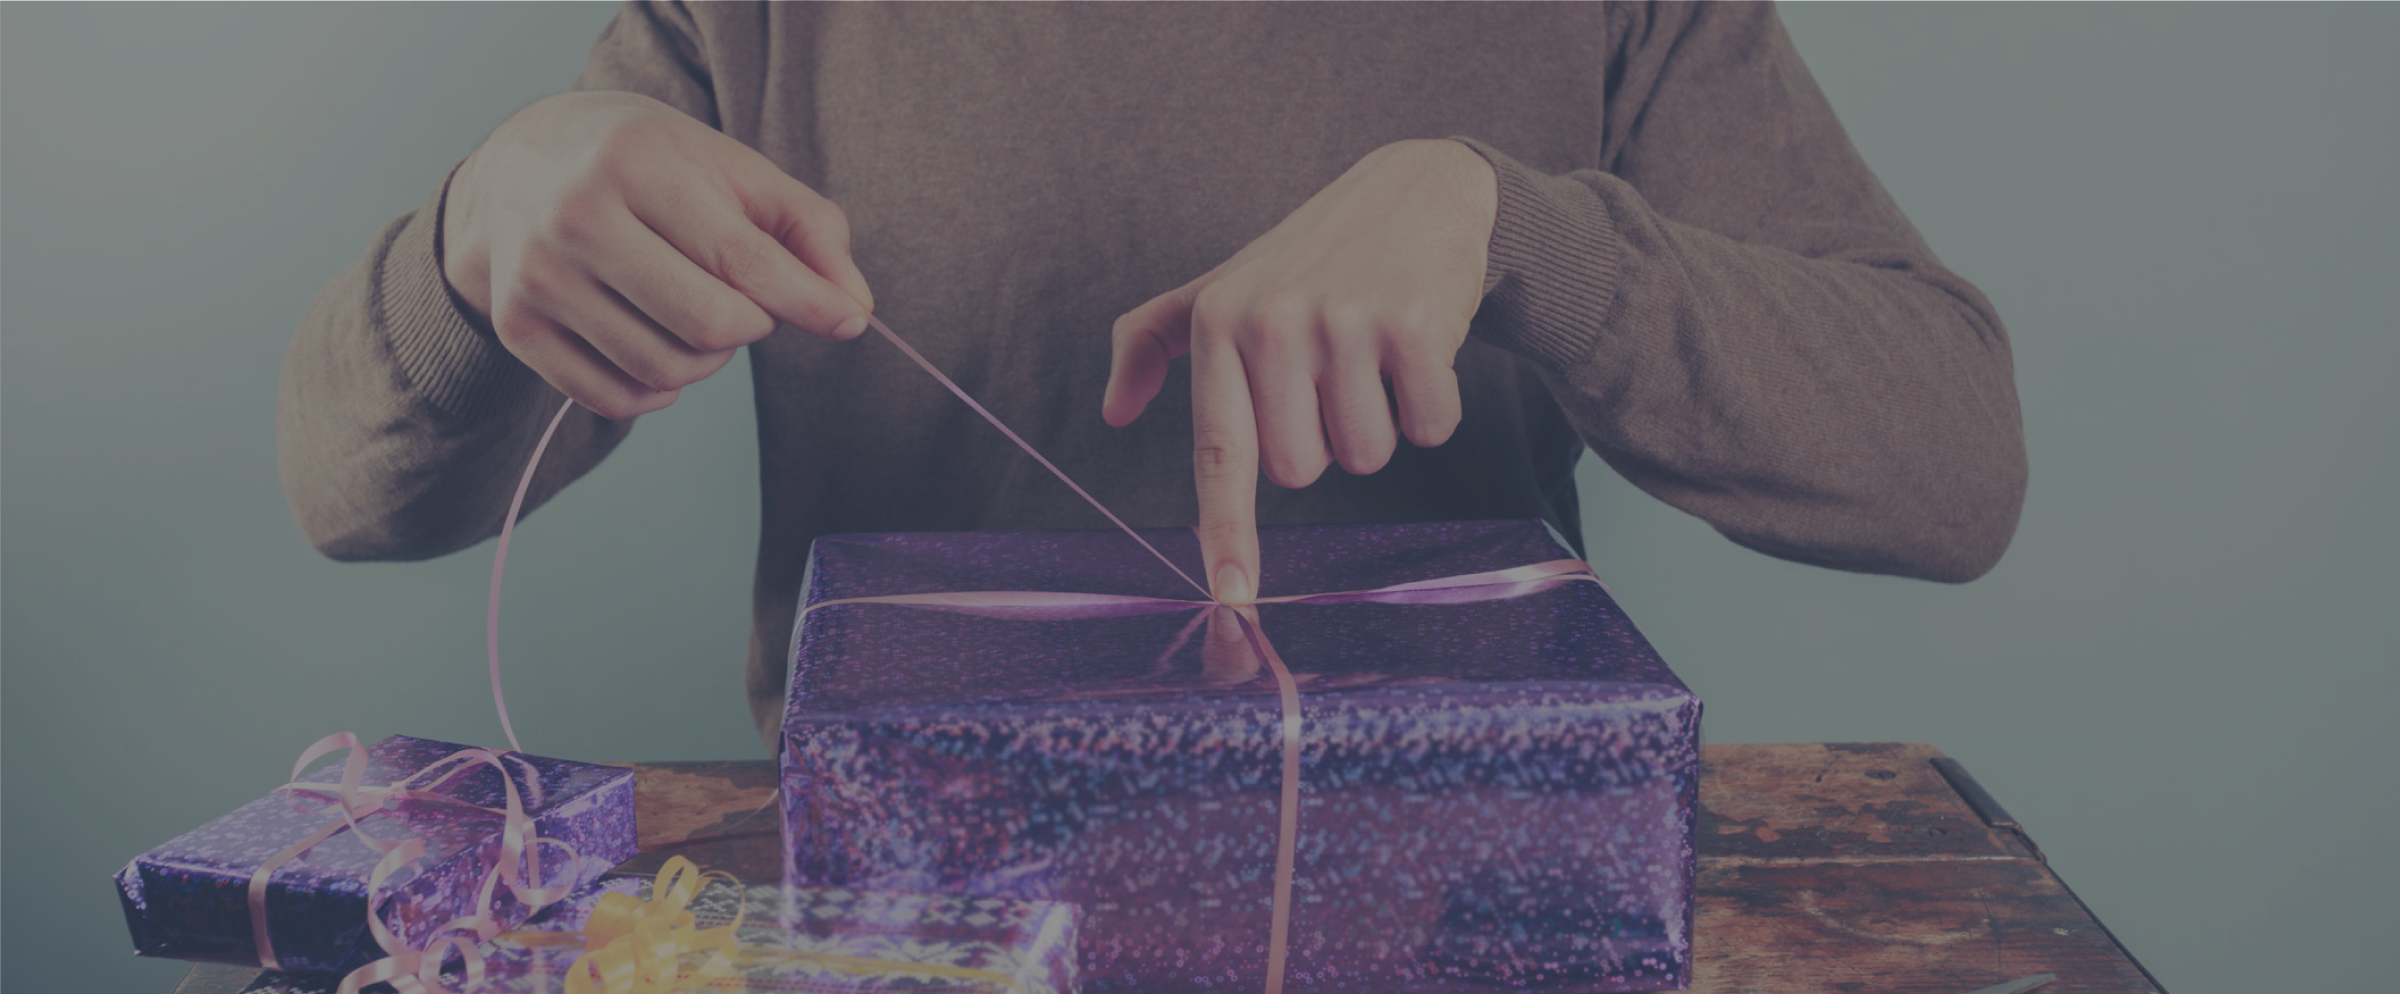
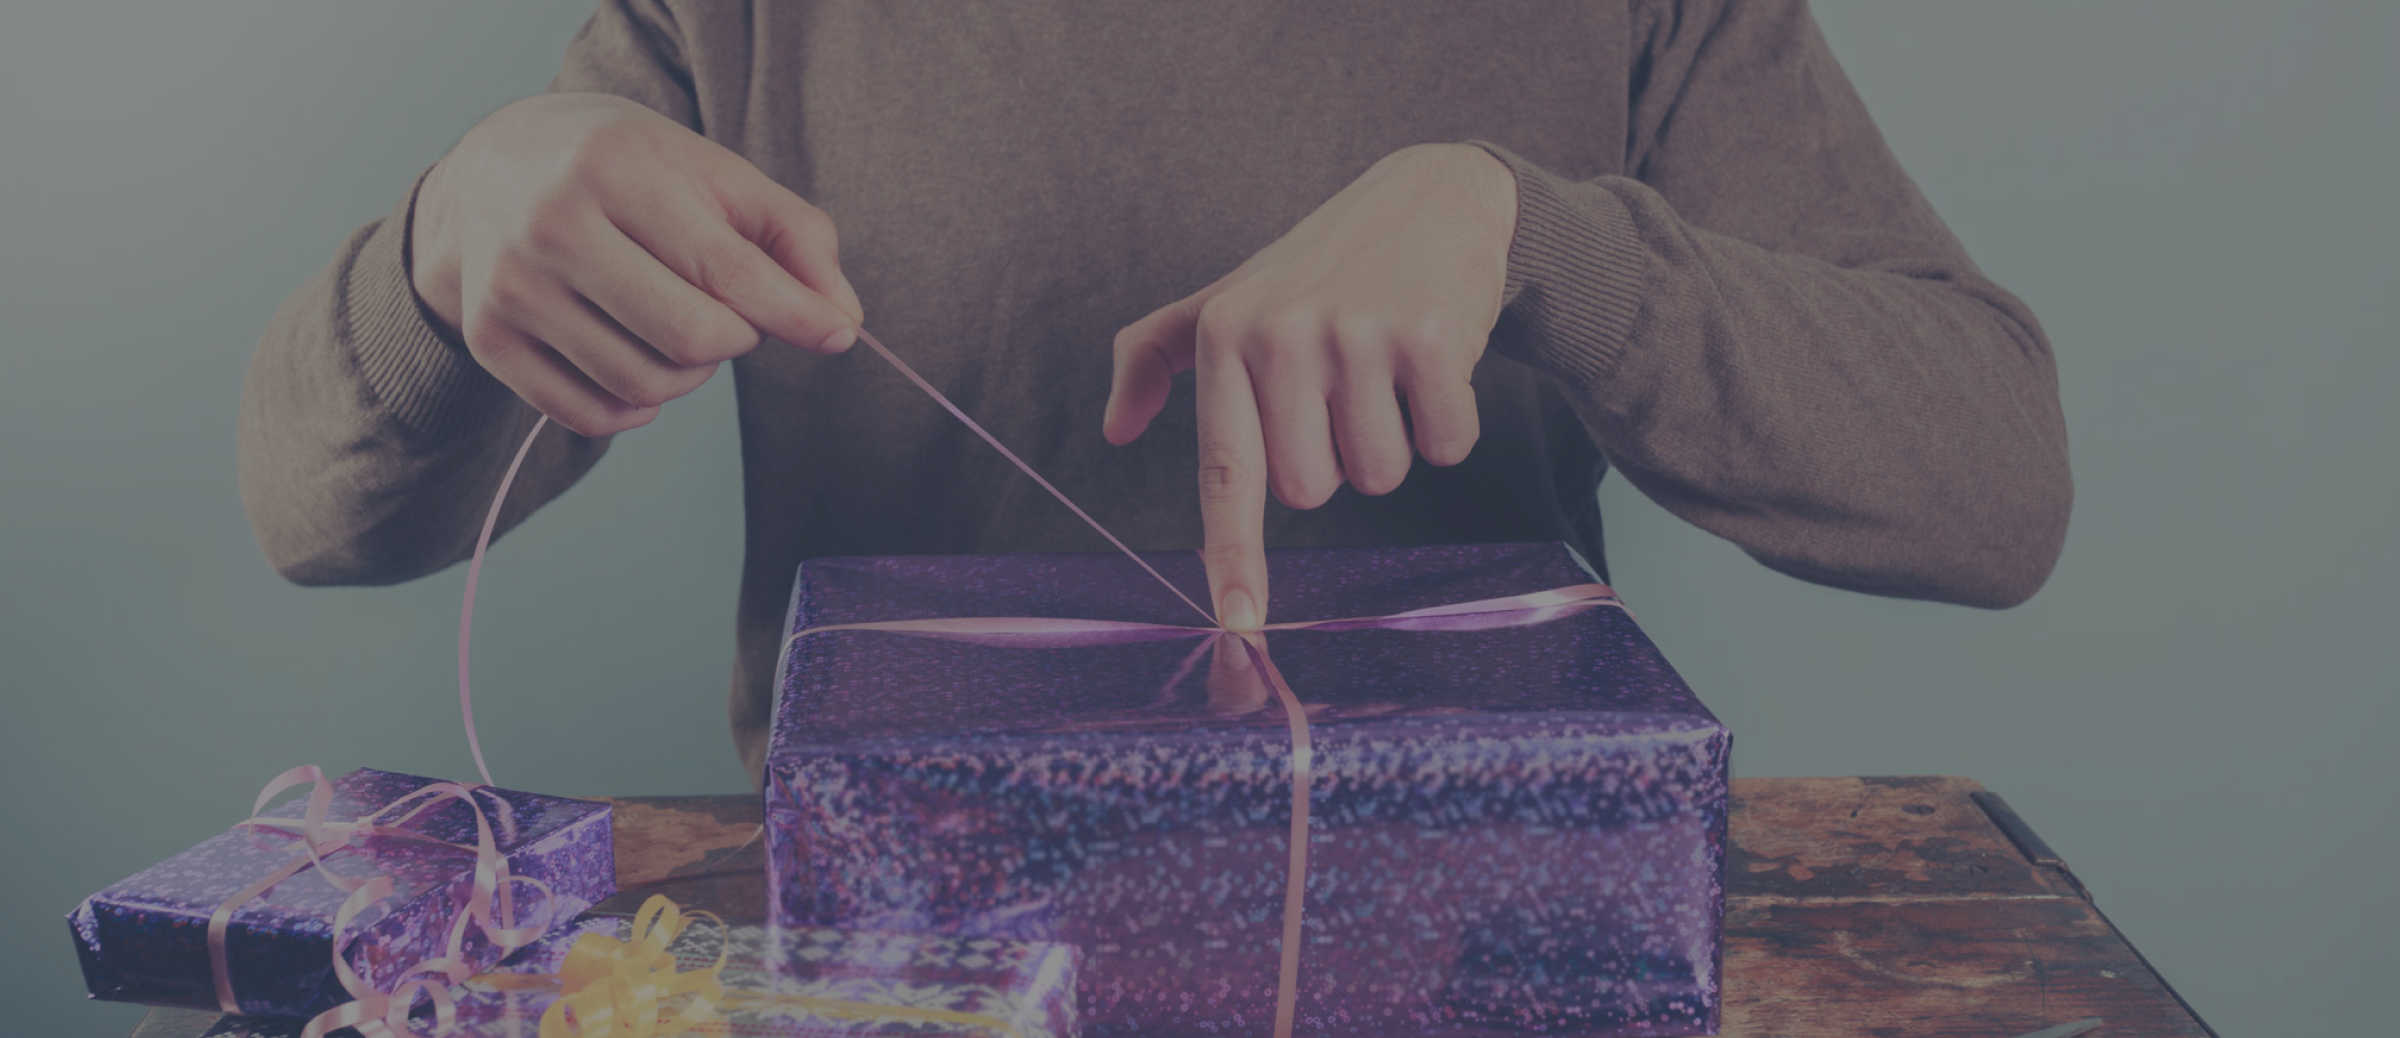
GFTS-568 home page update

diff --git a/client/scripts/home/home.sass b/client/scripts/home/home.sass
@@ -5,7 +5,7 @@ $landing-page-padding-horz: 1.3125em
 $step-width: 210px //(2 * $column-width - 4 * $step-margin-width - 2 * $landing-page-padding-horz) / 3
 
 .headerwrap
-  background: url("/assets/homepageHero.png") center top //no-repeat
+  background: url("/assets/homepageHero.png") center/cover //no-repeat top
   color: white
   margin: 0 auto 10px auto
   padding-top: 30px
@@ -13,7 +13,7 @@ $step-width: 210px //(2 * $column-width - 4 * $step-margin-width - 2 * $landing-
   h1
     color: white
   p
-    margin: 20px auto
+    margin: 0 auto 20px auto
     width: 60%
 
 div.landing-page
